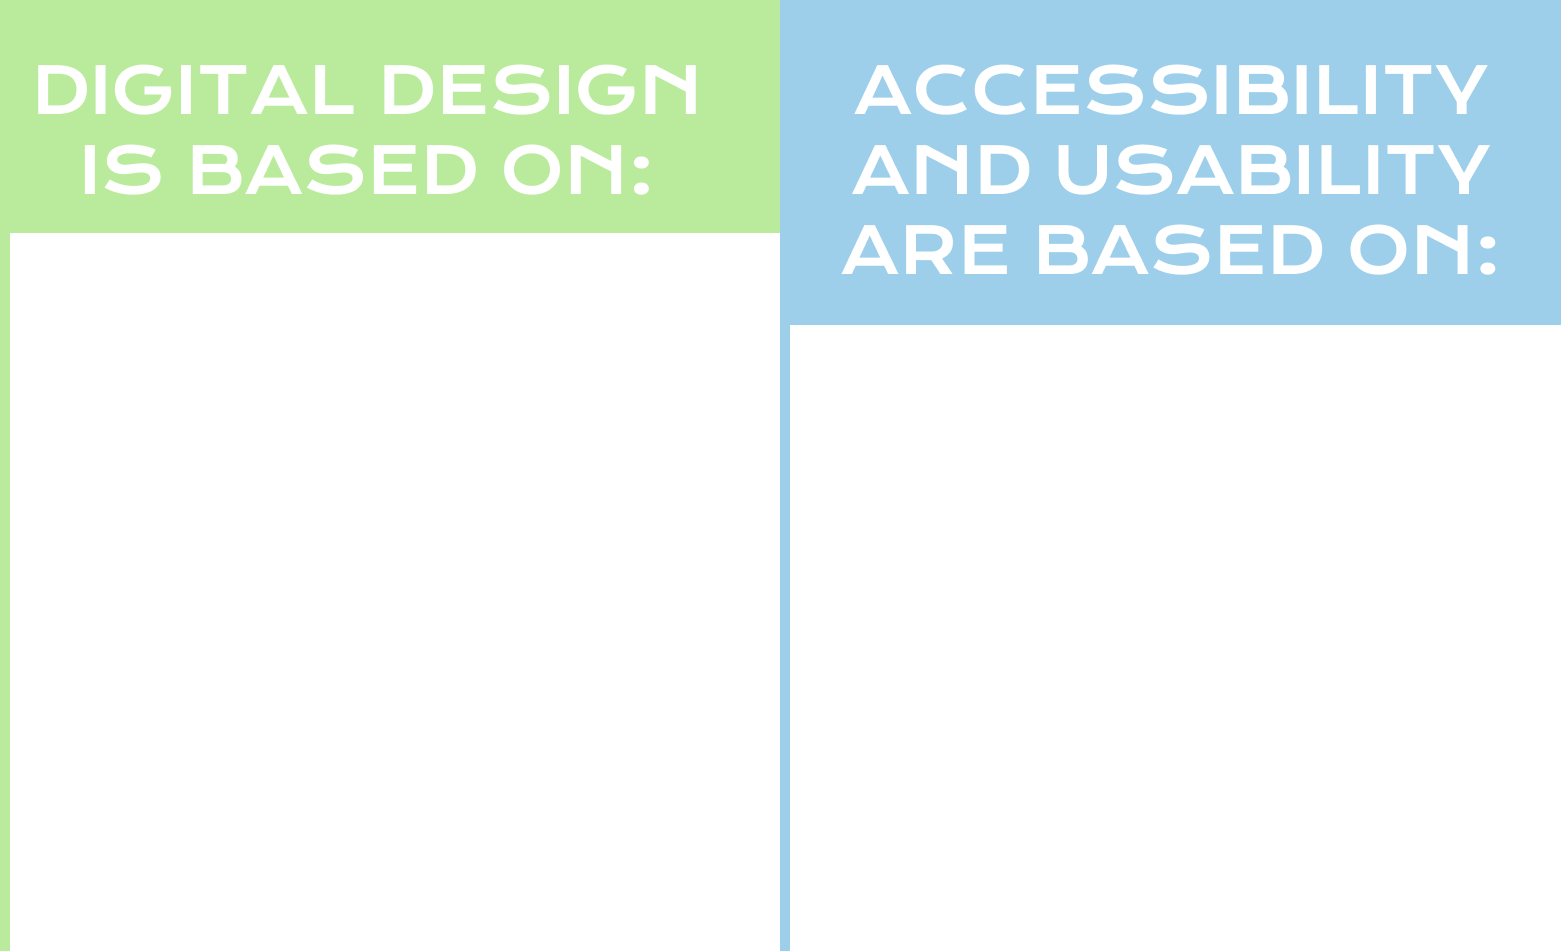
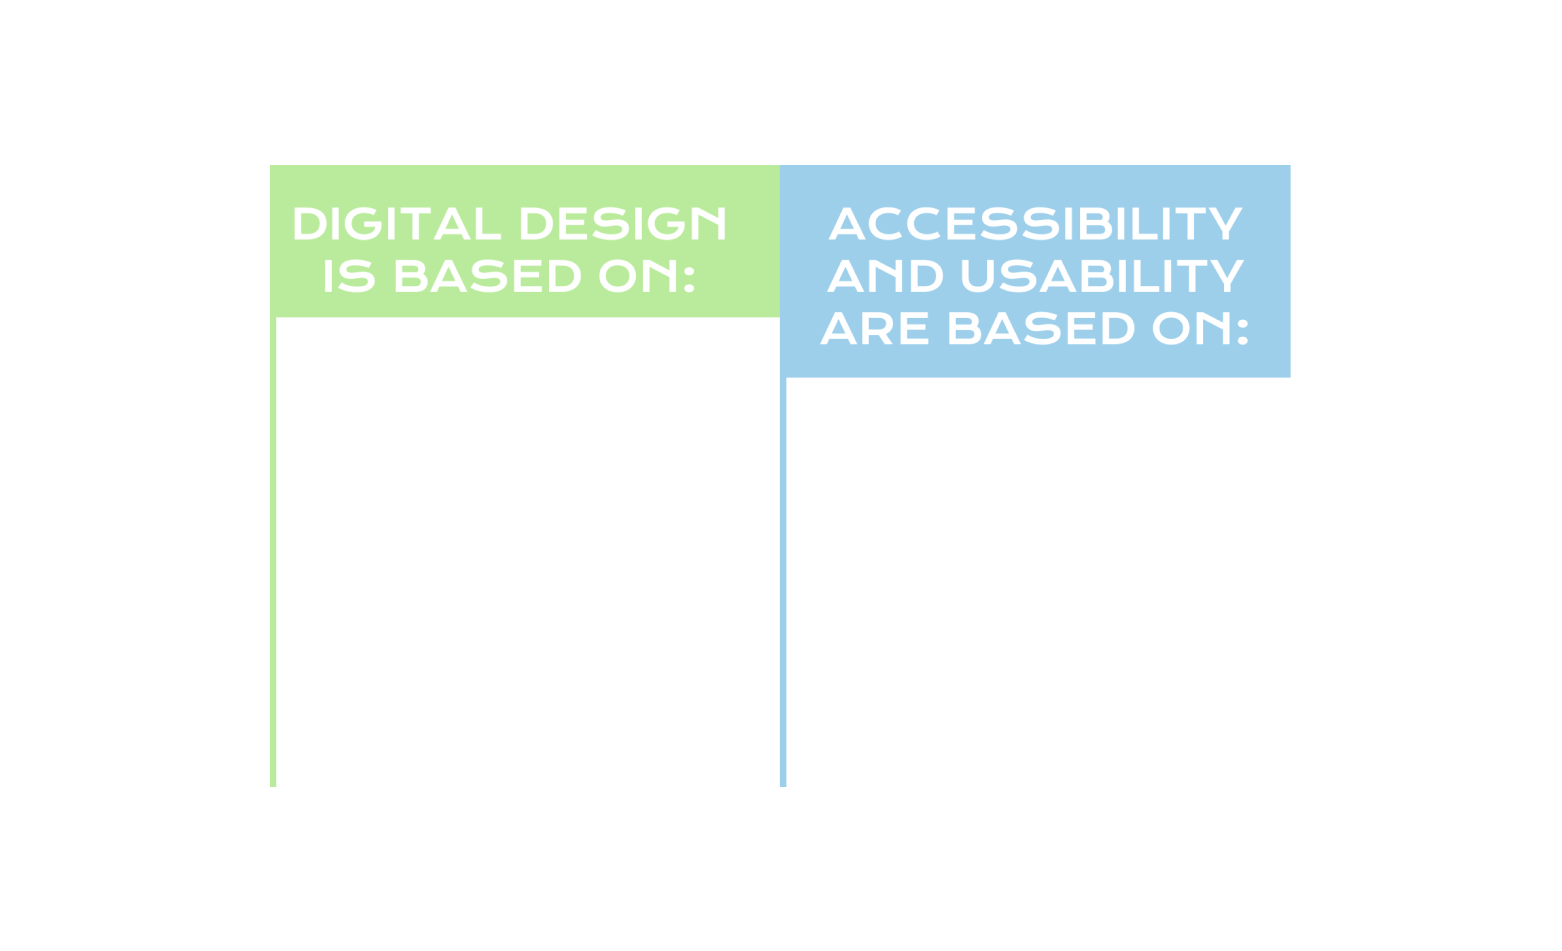
Thesis work + images fixed

Changed region(s): [[0.0, 0.0, 1.0, 1.0], [0.4917, 0.8233, 0.5224, 1.0]]

diff --git a/thesis.html b/thesis.html
@@ -162,7 +162,7 @@
 
     <div class="toptext">
 
-        <h1><mark class="markgreen">BACHELOR'S THESIS</mark></h1>
+        <h1><mark class="markgreen">THESIS</mark></h1>
 
     </div>
 
@@ -200,7 +200,7 @@
 
         <p>
 
-            Accessibility and usability are importnat factors to consider when creating web-content.
+            Accessibility and usability are important factors to consider when creating web-content.
             I go over the most popular design techniques used in digital design, as well as some of the definitions the term itself has accumulated.
             Forming a basis of how digital content is produced from a design-standpoint was crucial for the research.
             Using this base of knowledge it is possible to define the commonly used techniques and restrictions that come with digital platforms.
@@ -213,6 +213,9 @@
             It is used in legislature across nations in differing levels of detail to restrict private and public (government) content to achieve better accessibility.
             As for usability, Jakob Nielsen's 10 usability heuristics for interaction design hold the most weight in terms of influence. 
             These heuristics are applied in a number of fields, and they are often the basis for usability-driven design. 
+            This type of research has not to my knowledge been conducted before; most accessibility-related research focuses on automatic 
+            analyzing of web-pages, which results in a very specific type of information. With my thesis, I wanted to broaden the horizon of 
+            digital design in terms of concrete ways to apply accessibility and usability practices, while still supporting a modern take on design.
 
             <br><br>
 
@@ -252,9 +255,19 @@
 
         <p>
 
-
+            The results of the research were an in-depth look at what guidelines pertain to specific visual tools and techniques.
+            This information can be used not only to save time when designing web-content, but to also aid in a design-driven approach to digital design in general.
+            The research method allows for the reporoduction of the research using different, as well as more subjects. 
+            Below I've compiled a visualization of the results, which portrays specific design-trends as well as their corresponding 
+            WCAG 2.1 and Nielsen's Heuristic guidelines. 
 
         </p>
+
+        <br><br>
+
+        <img src="images/thesis3.png" alt="Research method displayed in two columns.">
+
+        <br><br>
         
     </div>
 
